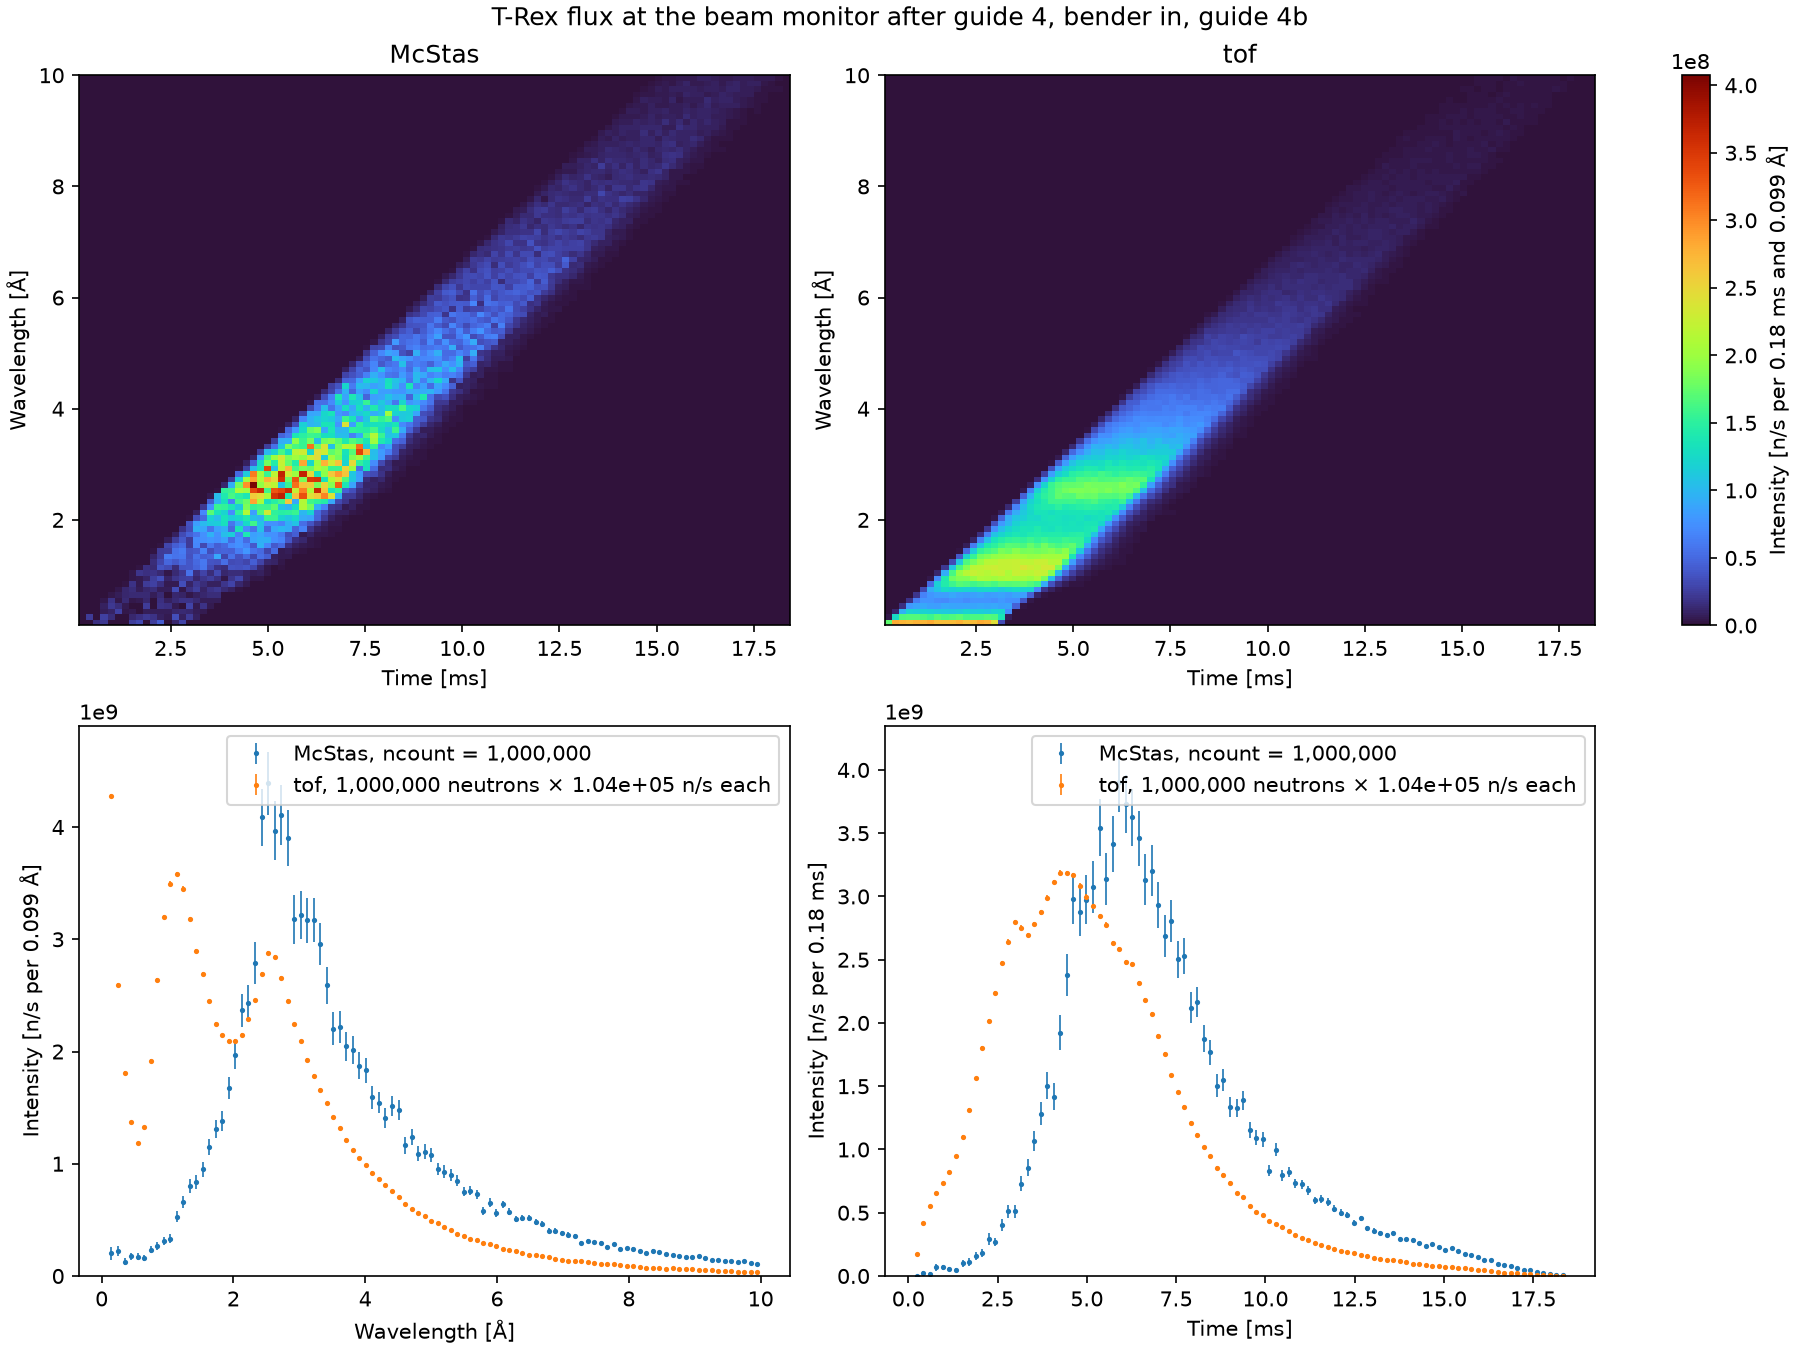
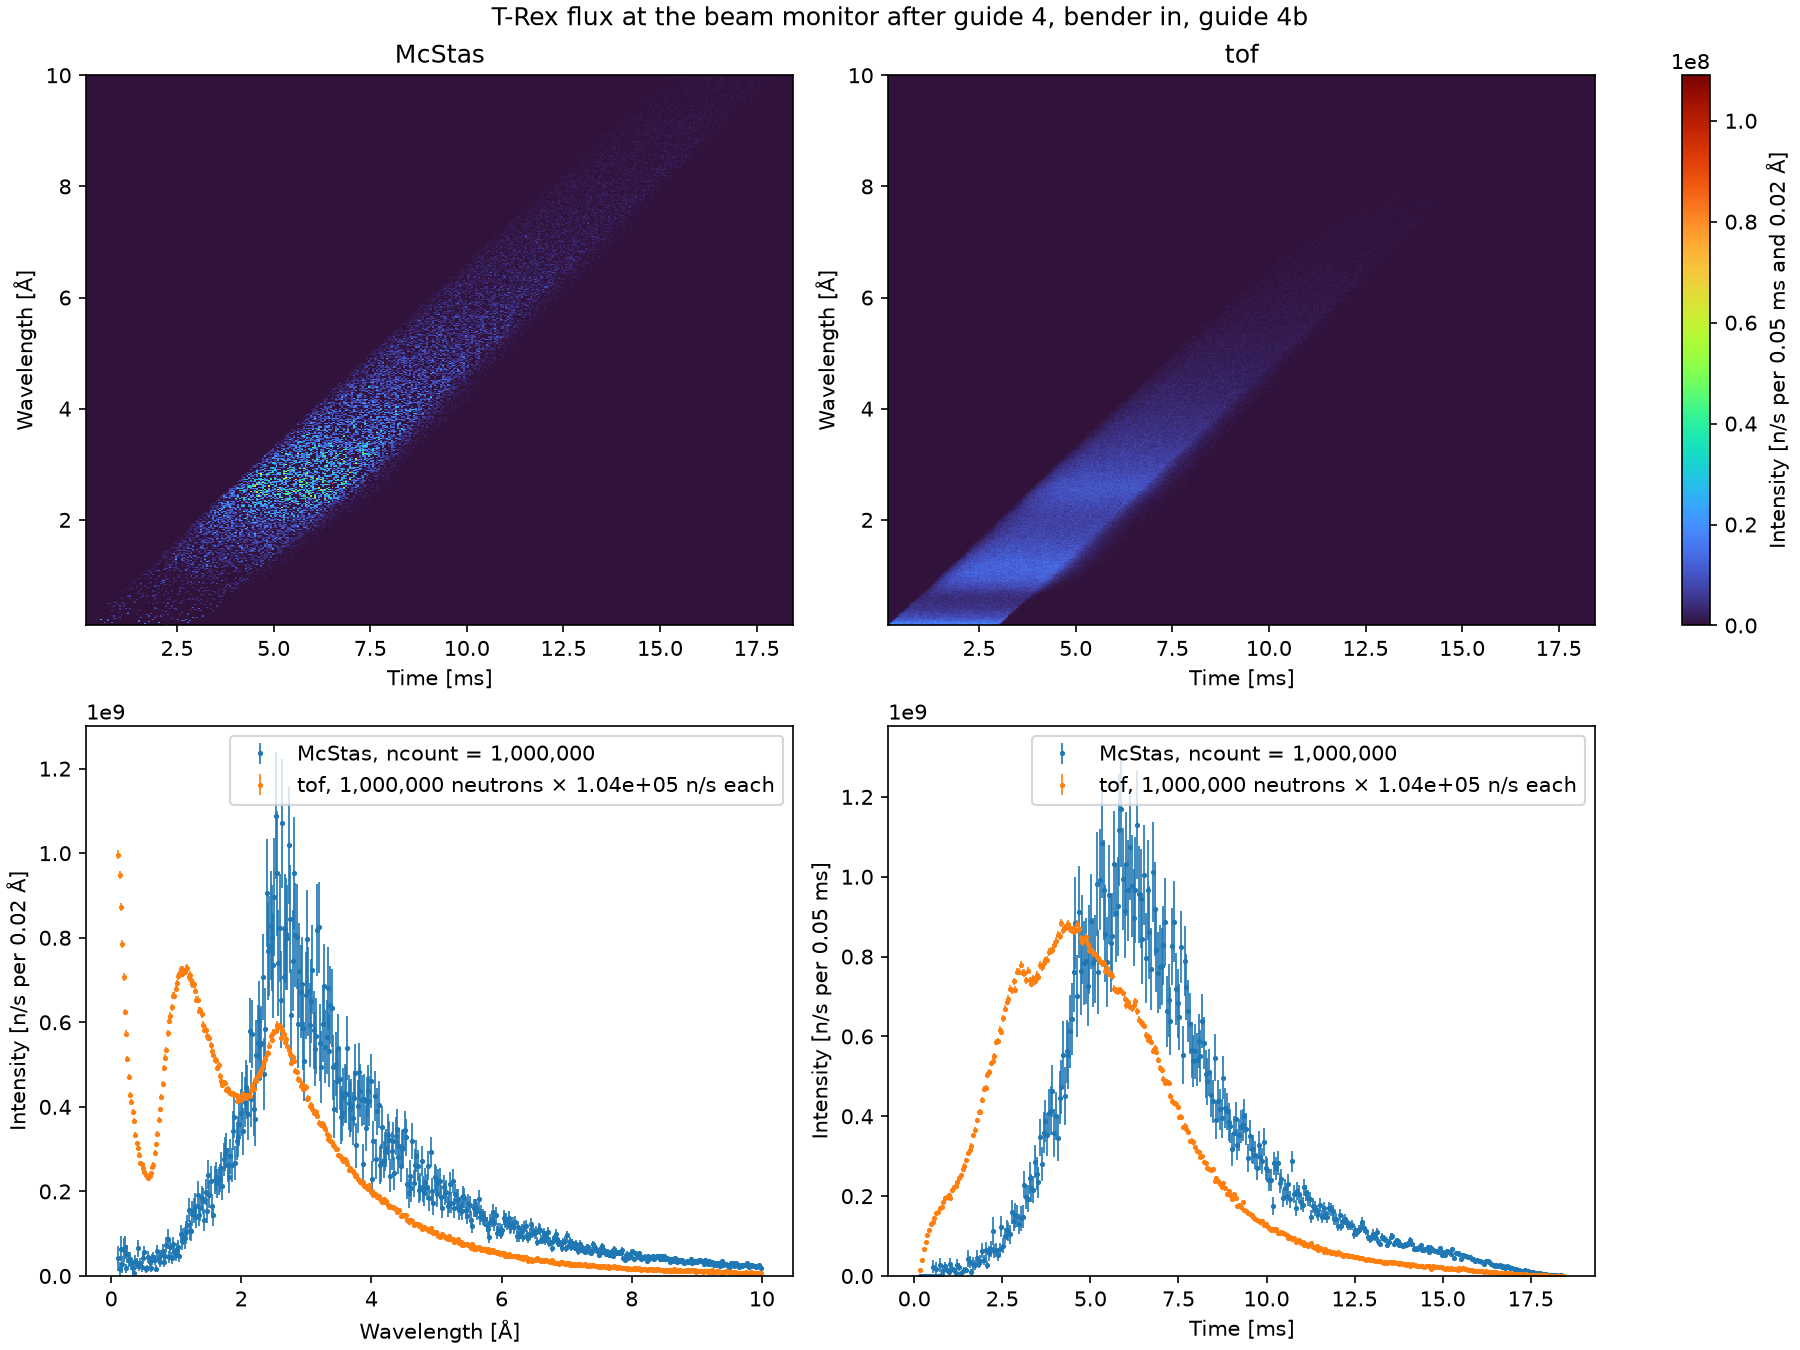
Bin the beam monitor by width, and move it with lambda0
beam_monitor takes the width of its bins, 0.02 Å and 0.05 ms by default,
in place of their numbers. bins_from_limits, in core/utils.py, gives the
fewest bins of that width that cover the limits, the stop moved up to the
end of the last bin. A new lambda0 in update_params creates the beam
monitor again with the band of the source. The bender scan sends a bin
centered on the edge of two bands to the band above, so each band of
0.5 Å has 25 bins. params.yaml, the files of the docs and their numbers
are made again.

diff --git a/src/mcdgs/instruments/trex/monitors.py b/src/mcdgs/instruments/trex/monitors.py
@@ -7,6 +7,7 @@ of row 29, after guide 4, on the arm of guide 4; the sample monitor at ``sample_
 from mcdgs.core.components import Monitor_nD
 from mcdgs.core.components.monitors import monitor_time_limits
 from mcdgs.core.components.source import ESS_SOURCE_LENGTH, L_MAX, L_MIN
+from mcdgs.core.utils import bins_from_limits
 
 from .guides.bispectral import GUIDE_4_TILT, GUIDE_4A_IN_Z
 from .guides.extraction import z_along_arm
@@ -15,12 +16,15 @@ BEAM_MONITOR_GAP_Z = 5.892  # m, cell B29
 BEAM_MONITOR_GAP_LENGTH = 0.02  # m, cell D29
 BEAM_MONITOR_Z = BEAM_MONITOR_GAP_Z + BEAM_MONITOR_GAP_LENGTH / 2  # m, mid-gap
 
+BEAM_MONITOR_LAMBDA_RESOLUTION = 0.02  # Å, the width of a wavelength bin
+BEAM_MONITOR_TIME_RESOLUTION = 5e-5  # s, the width of a time bin, 0.05 ms
+
 
 def beam_monitor(
     time_limits: tuple[float, float] | None = None,
     lambda_limits: tuple[float, float] | None = None,
-    lambda_bins: int = 100,
-    time_bins: int = 100,
+    lambda_resolution: float = BEAM_MONITOR_LAMBDA_RESOLUTION,
+    time_resolution: float = BEAM_MONITOR_TIME_RESOLUTION,
 ) -> Monitor_nD:
     """Create the time and wavelength monitor in the middle of the bunker gap of row 29.
 
@@ -36,10 +40,11 @@ def beam_monitor(
     lambda_limits:
         Start and stop of the wavelength axis, in Å. ``None`` takes the widest band the source
         simulates, ``L_MIN`` to ``L_MAX``.
-    lambda_bins:
-        Number of wavelength bins.
-    time_bins:
-        Number of time bins.
+    lambda_resolution:
+        Width of a wavelength bin, in Å. The axis has the fewest bins that cover
+        ``lambda_limits``, see :func:`.bins_from_limits`.
+    time_resolution:
+        Width of a time bin, in s, likewise.
 
     Returns
     -------
@@ -50,16 +55,16 @@ def beam_monitor(
         lambda_limits = (L_MIN, L_MAX)
     if time_limits is None:
         time_limits = monitor_time_limits(BEAM_MONITOR_Z, lambda_limits, ESS_SOURCE_LENGTH)
-    t_start, t_stop = time_limits
-    l_start, l_stop = lambda_limits
+    t_start, t_stop, t_bins = bins_from_limits(time_limits, time_resolution)
+    l_start, l_stop, l_bins = bins_from_limits(lambda_limits, lambda_resolution)
 
     return Monitor_nD(
         xwidth=0.06,  # FIXME cell E32, the entrance of guide 5
         yheight=0.046260695185495173,  # FIXME cell F32, the entrance of guide 5
         restore_neutron=1,
         options=(  # time in s, lambda in Å: one 2D map
-            f"time limits=[{t_start} {t_stop}] bins={time_bins} "
-            f"lambda limits=[{l_start} {l_stop}] bins={lambda_bins}"
+            f"time limits=[{t_start} {t_stop}] bins={t_bins} "
+            f"lambda limits=[{l_start} {l_stop}] bins={l_bins}"
         ),
         filename="beam_monitor",
         at=[0, 0, z_along_arm(BEAM_MONITOR_Z, GUIDE_4A_IN_Z, GUIDE_4_TILT)],

diff --git a/src/mcdgs/diagnostics/trex/extraction.py b/src/mcdgs/diagnostics/trex/extraction.py
@@ -33,6 +33,7 @@ from mcdgs.core.components import (
 from mcdgs.core.components.monitors import monitor_time_limits
 from mcdgs.core.components.source import ESS_SOURCE_LENGTH, L_MAX, L_MIN
 from mcdgs.core.params import InstrParam, param
+from mcdgs.core.utils import bins_from_limits
 from mcdgs.diagnostics.cli import output_folder, parse_out
 from mcdgs.diagnostics.compare import plot_comparison, read_comparison
 from mcdgs.instruments.trex.guides.bispectral import (
@@ -43,7 +44,12 @@ from mcdgs.instruments.trex.guides.bispectral import (
     guide_4b,
 )
 from mcdgs.instruments.trex.guides.extraction import guides_extraction
-from mcdgs.instruments.trex.monitors import BEAM_MONITOR_Z, beam_monitor
+from mcdgs.instruments.trex.monitors import (
+    BEAM_MONITOR_LAMBDA_RESOLUTION,
+    BEAM_MONITOR_TIME_RESOLUTION,
+    BEAM_MONITOR_Z,
+    beam_monitor,
+)
 from mcdgs.instruments.trex.sources import source
 from mcdgs.mcstas.builder import build_mcstas, default_input_dir
 from mcdgs.mcstas.run_folders import default_output_dir, run_folder
@@ -157,11 +163,12 @@ def main(
     """
     extraction = Extraction()
     tof_result = build_tof(extraction, neutrons=neutrons, seed=seed).run()
-    # FIXME: the axes of Extraction's beam monitor, its defaults written again: read them from
-    # the monitor instead, so that they cannot drift apart
-    (l_start, l_stop) = L_MIN, L_MAX
-    t_start, t_stop = monitor_time_limits(BEAM_MONITOR_Z, (l_start, l_stop), ESS_SOURCE_LENGTH)
-    t_bins, l_bins = 100, 100
+    # FIXME: the axes of Extraction's beam monitor, worked out again as beam_monitor does from
+    # its defaults: read them from the monitor instead, so that they cannot drift apart
+    band = (L_MIN, L_MAX)
+    time_limits = monitor_time_limits(BEAM_MONITOR_Z, band, ESS_SOURCE_LENGTH)
+    t_start, t_stop, t_bins = bins_from_limits(time_limits, BEAM_MONITOR_TIME_RESOLUTION)
+    l_start, l_stop, l_bins = bins_from_limits(band, BEAM_MONITOR_LAMBDA_RESOLUTION)
     bins = {  # the bin edges of the beam monitor's map, in its order: time, wavelength
         "toa": sc.linspace("toa", t_start, t_stop, t_bins + 1, unit="s"),
         "wavelength": sc.linspace("wavelength", l_start, l_stop, l_bins + 1, unit="Å"),

diff --git a/src/mcdgs/core/utils.py b/src/mcdgs/core/utils.py
@@ -5,6 +5,7 @@
   instrument parameters (``"-chi"``, ``"2.0*omega + 5"``) is parsed with ``ast`` and computed as
   McStas would. Only what McStas offers is allowed, and no code is run.
 - :func:`speed_from_wavelength` computes the speed of a neutron.
+- :func:`bins_from_limits` gives an axis of bins of one width, such as that of a monitor.
 """
 
 import ast
@@ -158,3 +159,38 @@ def speed_from_wavelength(wavelength: float) -> float:
     3956.034
     """
     return h / (m_n * wavelength * 1e-10)
+
+
+def bins_from_limits(limits: tuple[float, float], bin_width: float) -> tuple[float, float, int]:
+    """Return an axis of bins of exactly ``bin_width``, covering ``limits``.
+
+    The axis starts at the start of ``limits``. It has the fewest bins that cover them, so its
+    stop moves up to the end of the last bin, by less than one bin.
+
+    Parameters
+    ----------
+    limits:
+        Start and stop of the values to cover, such as wavelengths in Å or times in s.
+    bin_width:
+        Width of a bin, in the unit of ``limits``.
+
+    Returns
+    -------
+    :
+        Start and stop of the axis, and its number of bins.
+
+    Raises
+    ------
+    ValueError
+        If ``bin_width`` is not positive, or the stop is not above the start.
+
+    Examples
+    --------
+    >>> bins_from_limits((0.0, 1.1), 0.5)  # 2.2 bins: 3, up to 1.5
+    (0.0, 1.5, 3)
+    """
+    start, stop = limits
+    if bin_width <= 0 or stop <= start:
+        raise ValueError(f"need a positive bin width and stop > start, not {bin_width}, {limits}")
+    bins = math.ceil((stop - start) / bin_width - 1e-9)  # an exact multiple is not one more
+    return (start, start + bins * bin_width, bins)

diff --git a/src/mcdgs/diagnostics/trex/bender_scan.py b/src/mcdgs/diagnostics/trex/bender_scan.py
@@ -86,8 +86,8 @@ def read_spectra(h5_file: Path) -> tuple[NDArray, NDArray, NDArray]:
 
     The map of the beam monitor is summed over time, then over each band of
     :data:`BAND_WIDTH`, centered on a multiple of it. A wavelength bin goes to the band whose
-    center is nearest to its own, so a band's edges are those of its bins, within half a bin of
-    the band's. Only the bands the axis of the monitor covers whole are kept. The bins are
+    center is nearest to its own, and to the band above when it is centered on the edge of two,
+    so a band's edges are those of its bins, within half a bin of the band's. Only the bands the axis of the monitor covers whole are kept. The bins are
     independent, so their errors add in quadrature.
 
     Parameters
@@ -119,7 +119,9 @@ def read_spectra(h5_file: Path) -> tuple[NDArray, NDArray, NDArray]:
 
     half_bin = (wavelengths[1] - wavelengths[0]) / 2
     start, stop = wavelengths[0] - half_bin, wavelengths[-1] + half_bin  # the axis, in Å
-    band_of_bin = np.rint(wavelengths / BAND_WIDTH).astype(int)  # the nearest center, in widths
+    # the nearest center, in widths; a bin centered on the edge of two bands, as 0.25 Å, goes to
+    # the band above, whatever the rounding of its center
+    band_of_bin = np.floor(wavelengths / BAND_WIDTH + 0.5 + 1e-9).astype(int)
     tolerance = 1e-9  # Å: an edge of the axis on that of a band covers it
     whole = [
         int(band)

diff --git a/tests/core/test_utils.py b/tests/core/test_utils.py
@@ -2,7 +2,7 @@ import math
 
 import pytest
 
-from mcdgs.core.utils import evaluate, format_value, speed_from_wavelength
+from mcdgs.core.utils import bins_from_limits, evaluate, format_value, speed_from_wavelength
 
 PARAMS = {"omega": 30.0, "chi": 5.0, "x": 0.5}  # floats, as the params are
 
@@ -59,3 +59,21 @@ def test_anything_else_raises(entry, match):
 
 def test_a_neutron_of_1_angstrom_flies_at_3956_m_per_s():
     assert speed_from_wavelength(1.0) == pytest.approx(3956.034, abs=1e-3)
+
+
+def test_a_range_that_is_a_whole_number_of_bins_keeps_its_stop():
+    assert bins_from_limits((0.1, 10.0), 0.02) == pytest.approx((0.1, 10.0, 495))
+
+
+def test_the_last_bin_reaches_past_the_stop_so_every_bin_has_the_width():
+    start, stop, bins = bins_from_limits((1.0, 2.81), 0.02)  # 90.5 bins of 0.02
+    assert (start, bins) == (1.0, 91)
+    assert stop == pytest.approx(1.0 + 91 * 0.02)
+
+
+@pytest.mark.parametrize(
+    "limits, width", [((1.0, 2.0), 0.0), ((1.0, 2.0), -0.1), ((2.0, 1.0), 0.1)]
+)
+def test_a_width_or_limits_that_make_no_axis_are_refused(limits, width):
+    with pytest.raises(ValueError, match="positive bin width"):
+        bins_from_limits(limits, width)

diff --git a/src/mcdgs/instruments/trex/model.py b/src/mcdgs/instruments/trex/model.py
@@ -137,8 +137,8 @@ class TRex(Instrument):
     def update_params(self, **values: Any) -> None:
         """Change control parameters.
 
-        A new ``lambda0`` also creates the source again, with the band of
-        :func:`.sources.wavelength_band`. The beam monitor keeps its wavelength axis.
+        A new ``lambda0`` also creates the source and the beam monitor again, with the band of
+        :func:`.sources.wavelength_band`.
 
         Parameters
         ----------
@@ -154,6 +154,7 @@ class TRex(Instrument):
         if "lambda0" in values:
             lambda_min, lambda_max = wavelength_band(self.params.lambda0)
             self.source = source(lambda_min, lambda_max)
+            self.beam_monitor = beam_monitor(lambda_limits=(lambda_min, lambda_max))
 
     def add_components(self, components: dict[str, Component]) -> None:
         """Set components as attributes under their names, keeping their order.

diff --git a/tests/instruments/trex/test_trex.py b/tests/instruments/trex/test_trex.py
@@ -90,10 +90,13 @@ def test_the_band_of_the_source_is_centered_on_lambda0():
     assert (source.Lmin, source.Lmax) == pytest.approx((2.0 - HALF_BAND, 2.0 + HALF_BAND))
 
 
-def test_a_new_lambda0_moves_the_band_of_the_source():
+def test_a_new_lambda0_moves_the_band_of_the_source_and_the_beam_monitor():
     trex = TRex()
+    names = list(trex.components)
     trex.update_params(lambda0=4.0)
     assert (trex.source.Lmin, trex.source.Lmax) == pytest.approx((4.0 - HALF_BAND, 4.0 + HALF_BAND))
+    assert trex.beam_monitor == TRex(params=trex.params).beam_monitor
+    assert list(trex.components) == names  # in their place
 
 
 def test_the_beam_monitor_is_in_the_middle_of_its_gap():

diff --git a/tests/core/test_monitors.py b/tests/core/test_monitors.py
@@ -1,0 +1,8 @@
+import pytest
+
+from mcdgs.core.components.monitors import monitor_time_limits
+
+
+def test_the_time_window_runs_from_the_fastest_to_the_slowest_leaving_at_the_end():
+    # 1 Å flies 3956.034 m/s and 2 Å half that, over 3956.034 m: 1 s and 2 s, plus 0.5 s
+    assert monitor_time_limits(3956.034006119441, (1.0, 2.0), 0.5) == pytest.approx((1.0, 2.5))

diff --git a/docs/instruments/trex/bender-scan.md b/docs/instruments/trex/bender-scan.md
@@ -10,9 +10,10 @@ guide 4.
 `run_bender_scan` runs McStas at 19 values of `b_rot`, from −0.8 to 0.1 deg in steps of 0.05 deg,
 with the bender in, and once with it out, through the thermal guide 4a. `read_spectra` sums the
 map of the beam monitor over time, and then over bands of 0.5 Å centered on 0.5, 1.0, … 9.5 Å:
-19 bands over the 0.1 to 10 Å of the monitor. Each wavelength bin, 0.099 Å wide, goes to the band
-whose center is nearest to its own, so the edges of a band are those of its bins, within half a
-bin. The bins are independent, so their errors add in quadrature.
+19 bands over the 0.1 to 10 Å of the monitor. Each wavelength bin, 0.02 Å wide, goes to the band
+whose center is nearest to its own, 25 bins to a band. A bin is centered on each edge of two
+bands, and goes to the band above, so each band is that of its center moved up by half a bin,
+0.01 Å. The bins are independent, so their errors add in quadrature.
 `transmission` divides each band of the scan by the same band with the bender out, and the
 relative errors of the two add in quadrature.
 
@@ -27,20 +28,20 @@ At −0.4 deg, the point of the scan nearest the nominal rotation:
 
 | Band center | Transmission |
 | ----------- | ------------ |
-| 8.5 to 9.5 Å | 0.80 to 0.86 |
-| 3.0 to 8.0 Å | 0.91 to 1.05 |
+| 8.5 to 9.5 Å | 0.81 to 0.86 |
+| 3.0 to 8.0 Å | 0.92 to 1.06 |
 | 2.5 Å | 0.88 |
-| 2.0 Å | 0.71 |
-| 1.5 Å | 0.33 |
-| 0.5 and 1.0 Å | 0.15 and 0.13 |
+| 2.0 Å | 0.67 |
+| 1.5 Å | 0.30 |
+| 0.5 and 1.0 Å | 0.14 and 0.12 |
 
-The errors are 0.007 to 0.04, the larger at the longer wavelengths, where fewer neutrons are.
+The errors are 0.007 to 0.05, the larger at the longer wavelengths, where fewer neutrons are.
 Above 1 means the bender passes a band slightly better than guide 4a; within the errors the bands
 from 3 to 8 Å pass completely. They are flat from about −0.6 to −0.2 deg, so the nominal rotation
-sits in the middle of that range. Above 8 Å the transmission is lower, 0.80 to 0.86 here and
-0.75 to 0.94 over the scan. The bands of 1.0 and 1.5 Å keep rising up to the end of the scan at 0.1 deg,
-so their maximum lies outside it. The shortest band, around 0.5 Å, stays below 0.22 at every
-angle.
+sits in the middle of that range. Above 8 Å the transmission is lower, 0.81 to 0.86 here and
+0.75 to 0.93 over the scan. The bands of 1.0 and 1.5 Å keep rising up to the end of the scan at
+0.1 deg, so their maximum lies outside it. The shortest band, around 0.5 Å, stays below 0.2 at
+every angle.
 
 ## Making the figure
 

diff --git a/docs/instruments/trex/details.md b/docs/instruments/trex/details.md
@@ -65,8 +65,7 @@ neutron mass, so a neutron of 1 Å flies at 3956 m/s. The band is then
 
 centered on `lambda0` and cut to 0.1 to 10 Å, the widest band of `ESS_butterfly`. The 3.5 ms is
 longer than the 2.857 ms of the ESS pulse in McStas, to keep its tail. A new `lambda0`, through
-`update_params`, creates the source again with its band. The beam monitor keeps the band of the
-`lambda0` T-Rex was created with.
+`update_params`, creates the source and the beam monitor again with its band.
 
 ## Extraction guides
 
@@ -179,12 +178,14 @@ Both monitors leave the neutrons unchanged. They are in
 
 | Monitor | Where | Size | What it records |
 | ------- | ----- | ---- | --------------- |
-| `beam_monitor` | In the middle of the bunker gap of row 29, after guide 4, 5.902 m along the beam, on the arm of guide 4 | 0.06 m × 0.0463 m | Time against wavelength, 100 × 100 bins |
+| `beam_monitor` | In the middle of the bunker gap of row 29, after guide 4, 5.902 m along the beam, on the arm of guide 4 | 0.06 m × 0.0463 m | Time against wavelength, in bins of 0.05 ms and 0.02 Å |
 | `sample_monitor` | At `sample_pos` | 0.1 m × 0.1 m | Wavelength, 0.5 to 5.3 Å in 12 bins |
 
 The wavelength axis of `beam_monitor` is the band of the source. Its time axis runs from the
 fastest neutron of that band, leaving at the start of the pulse, to the slowest, leaving 3.5 ms
-later: 1.63 to 7.83 ms at the default `lambda0`.
+later. Each axis has the fewest bins of its width that cover it, so its stop moves up to the end
+of the last bin: at the default `lambda0`, 1.095 to 2.915 Å in 91 bins and 1.63 to 7.83 ms in
+124.
 
 ## Chopper timing
 

diff --git a/docs/instruments/trex/extraction.md b/docs/instruments/trex/extraction.md
@@ -40,10 +40,11 @@ grainy. The spectra, on one axis, are smooth.
 ## McStas and tof at the beam monitor
 
 The beam monitor is in the gap after guide 4, at 5.902 m, 0.06 m wide and 0.0463 m high. It
-records one map of time, 0.15 to 18.4 ms in 100 bins of 0.18 ms, against wavelength, 0.1 to 10 Å
-in 100 bins of 0.099 Å. The time runs from the fastest neutron of the band, 0.1 Å, leaving at the
+records one map of time, 0.15 to 18.4 ms in 366 bins of 0.05 ms, against wavelength, 0.1 to 10 Å
+in 495 bins of 0.02 Å. The time runs from the fastest neutron of the band, 0.1 Å, leaving at the
 start of the pulse, to the slowest, 10 Å, leaving 3.5 ms later. Both models see the same monitor;
-see [Source](source.md) for how the two are read and compared.
+see [Source](source.md) for how the two are read and compared. With 1e6 neutrons spread over
+that many bins, the McStas map and spectra are grainy.
 
 tof has no guides and no bender: every neutron of its pulse reaches the monitor, at the time of
 its straight flight from the source. Its counts are scaled to the McStas total at the monitor, on
